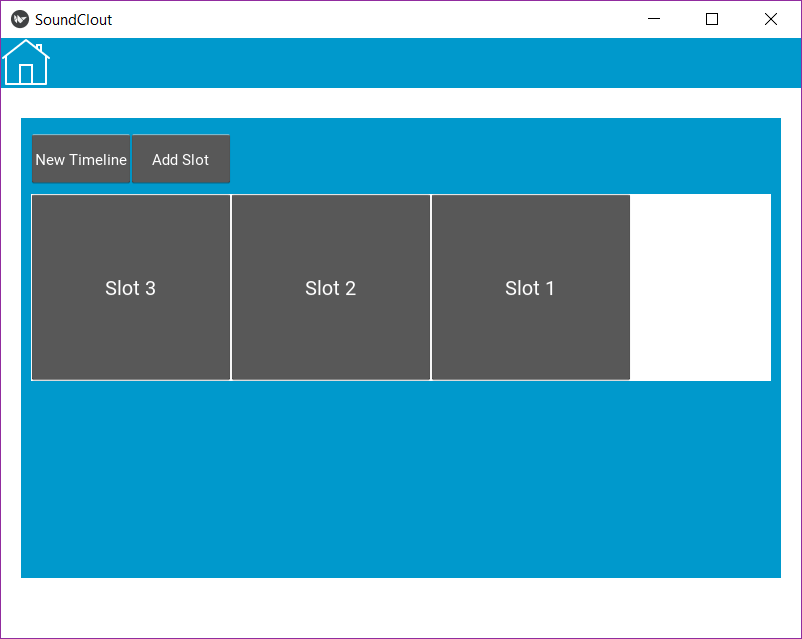
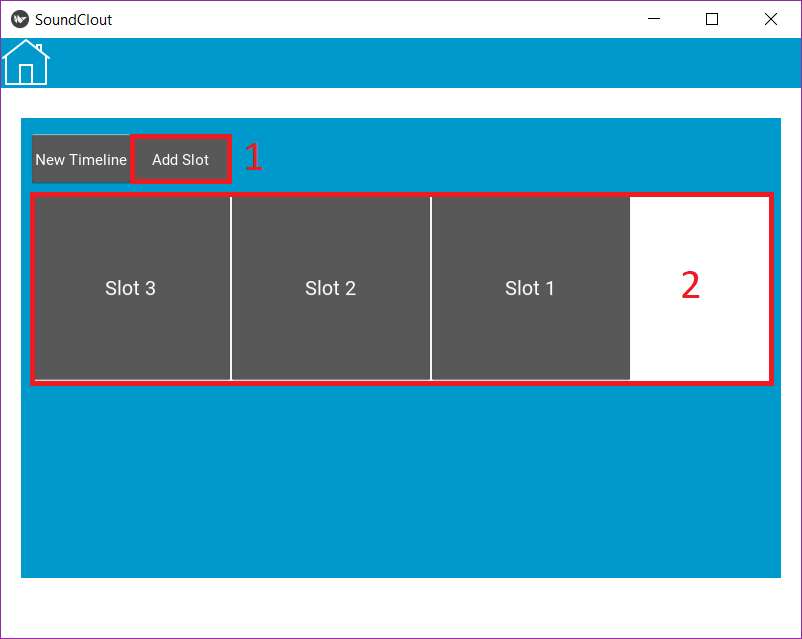
finished index

Changed region(s): [[0.0312, 0.2081, 0.9663, 0.6244], [0.8416, 0.4163, 0.8728, 0.4757]]

diff --git a/index.html b/index.html
@@ -3,12 +3,12 @@
 <head>
 <style>
 img {
-    height:30%;
+    width:20%;
 }
 </style>
 </head>
 
-<body>
+<body style="width:80%">
 <h1>SoundClout Application User Guide</h1>
 <br>
 <p style="font-family:courier;">The Soundclout app is an application intended to control and distribute a series of instructions to raspberry pi devices for use in a sound art installation. Even though the intended use of the app is for an art installation, it can still serve as a generalized raspberry pi controller.</p>
@@ -21,38 +21,56 @@ img {
 <p style="font-family:courier;">To get started you must connect to the raspberry pis you intend on using. Go to the "Connect Devices" Page.</p>
 <p>Connected Devices page:</p>
 <img src="./images/connectdev.png" alt="Connected Devices">
-<p style="font-family:courier;"> First make sure your computer's bluetooth is ON. Hit scan<em color="#ff0000">(1)</em> and the app will search the list of bluetooth enabled devices in the area for the configured raspberry pis. The list of devices that show up in the list under scan<em color="#ff0000">(2)</em> will only be the pis that are configured for the app- so any other devices in the area won't be available to make a connection. Click on the device name in the list to add it to your list of connected devices<em color="#ff0000">(3)</em>. If you wish to disconnect from a device simply click on the name in the connected devices area<em color="#ff0000">(3)</em>. If you want to disconnect from all devices, hit the button<em color="#ff0000">(4)</em>. Click the home icon in the top left corner to return to the main screen.</p>
+<p style="font-family:courier;"> First make sure your computer's bluetooth is ON. Hit scan<a style="color:red">(1)</a> and the app will search the list of bluetooth enabled devices in the area for the configured raspberry pis. The list of devices that show up in the list under scan<a style="color:red">(2)</a> will only be the pis that are configured for the app- so any other devices in the area won't be available to make a connection. Click on the device name in the list to add it to your list of connected devices<a style="color:red">(3)</a>. If you wish to disconnect from a device simply click on the name in the connected devices area<a style="color:red">(3)</a>. If you want to disconnect from all devices, hit the button<a style="color:red">(4)</a>. Click the home icon in the top left corner to return to the main screen.</p>
 <br>
 
 <p style="font-family:courier;">To test the raspberry pis you are connected to, navigate to the "Device Tester" screen.</p>
 <p>Device Tester Screen:</p>
 <img src="./images/testdev.png" alt="Test Devices">
-<p style="font-family:courier;">There will be a list of the devices you are connected to<em color="#ff0000">(1)</em> and then you can toggle the switches<em>(2)</em> next to the name to "ON" and hit the test button<em color="#ff0000">(3)</em> to start running the components connected to the Pi(s).</p>
+<p style="font-family:courier;">There will be a list of the devices you are connected to<a style="color:red">(1)</a> and then you can toggle the switches<em>(2)</a> next to the name to "ON" and hit the test button<a style="color:red">(3)</a> to start running the components connected to the Pi(s).</p>
 <p style="font-family:courier;">Once you are satisfied everything is working as intended you can start grouping together your devices</p>
 <br>
 
 <p style="font-family:courier;">Go to the "Edit Device Groups page" to begin adding devices.</p>
 <p>Edit Device Groups Page:</p>
 <img src="./images/editdevgroup.png" alt="Edit Device Groups">
-<p style="font-family:courier;">Select Create Group<em color="#ff0000">(1)</em> to create a new group. Groups are collections of devices that all receive the same instructions from the application. Alternatively you can Load Groups<em color="#ff0000">(2)</em> to load a configuration you have previously saved.</p>
+<p style="font-family:courier;">Select Create Group<a style="color:red">(1)</a> to create a new group. Groups are collections of devices that all receive the same instructions from the application. Alternatively you can Load Groups<a style="color:red">(2)</a> to load a configuration you have previously saved.</p>
 <p>New Group Screen:</p>
 <img src="./images/newgroup.png" alt="New Device Groups">
-<p style="font-family:courier;">Where it says "New Group"<em color="#ff0000">(1)</em> you can name the group whatever you'd like and then hit ok<em color="#ff0000">(2)</em> when you're satisfied.</p>
+<p style="font-family:courier;">Where it says "New Group"<a style="color:red">(1)</a> you can name the group whatever you'd like and then hit ok<a style="color:red">(2)</a> when you're satisfied.</p>
 <p>You'll see this after you hit ok:</p>
 <img src="./images/group settings.png" alt="Group Settings">
-<p style="font-family:courier;">Now you can see your group settings and the devices that you're connected to<em color="#ff0000">(1)</em> in this page. Hit the switch<em color="#ff0000">(2)</em> to choose which devices are active inside of this group. Hit back<em color="#ff0000">(3)</em> to go back to the edit device groups screen - or hit remove<em color="#ff0000">(4)</em> to delete this group.</p>
+<p style="font-family:courier;">Now you can see your group settings and the devices that you're connected to<a style="color:red">(1)</a> in this page. Hit the switch<a style="color:red">(2)</a> to choose which devices are active inside of this group. Hit back<a style="color:red">(3)</a> to go back to the edit device groups screen - or hit remove<a style="color:red">(4)</a> to delete this group.</p>
 <p>Now the Edit Device Groups page looks like this:</p>
 <img src="./images/editdevgroup2.png" alt="Edit Device Groups2">
-<p style="font-family:courier;">You can now see the groups you have made in the edit device groups screen. You can click save<em color="#ff0000">(1)</em> to save your current group configurations if you want to.</p>
+<p style="font-family:courier;">You can now see the groups you have made in the edit device groups screen. You can click save<a style="color:red">(1)</a> to save your current group configurations if you want to.</p>
 <p style="font-family:courier;">Now we can return to the main screen.</p>
 <br>
 
 <p style="font-family:courier;">Navigate to the "Edit Group Behavior" screen to start building a timeline. A timeline is a group of time slots that tell each device group how to behave during that slot of time. When the app is running the time slots are executed in order.</p>
 <p>Edit Group Behavior Screen:</p>
 <img src="./images/edit group behavior.png" alt="Edit Group Behavior">
-<p style="font-family:courier;">Hit build timeline<em color="#ff0000">(1)</em> to create a new one or load timeline<em color="#ff0000">(2)</em> to load a timeline configuration you've already made</p>
+<p style="font-family:courier;">Hit build timeline<a style="color:red">(1)</a> to create a new one or load timeline<a style="color:red">(2)</a> to load a timeline configuration you've already made. Let's look at building a new timeline.</p>
+<p>Building Timelines:</p>
+<img src="./images/adding slots.png" alt="Building Timeline">
+<p style="font-family:courier;">Hit add slot<a style="color:red">(1)</a> to add a new slot. Each slot represents a range of time in which specific setting are applied to each active group. When you select a slot<a style="color:red">(2)</a> you can then individually configure the settings you want applied to each group of devices in that slot of time. First you must select the group whose settings for that slot you'd like to edit.</p>
+<p>Selecting Slot Group:</p>
+<img src="./images/slotgroupselection.png" alt="Select Group In Slot">
+<p style="font-family:courier;">You'll see the groups you have created here<a style="color:red">(1)</a>. You can select a group to edit the slot settings, or you can press "Remove Slot"<a style="color:red">(2)</a> to delete the slot you are currently editing. Let's select Group 1 to see its slot settings.</p>
+
+<p>Configuring Group Slot Settings:</p>
+<img src="./images/slotsettings.png" alt="Configure Slots">
+<p style="font-family:courier;">The number of events<a style="color:red">(1)</a> is how many times the connected group activates the attached components within the total time lenght of the slot. The Event length<a style="color:red">(2)</a> is how long the components are activated during each instance of an event. The Apply Trigger<a style="color:red">(3)</a> allows you to connect another group to the current group. When the other group triggers an event, there is a percent chance<a style="color:red">(4)</a> you can specify that the current group will also have an event regardless of the number of total events selected. This allows groups to be dependent on or interact with one another.</p>
+<p style="font-family:courier;">Hit save<a style="color:red">(5)</a> to commit the group behavior for this time slot.</p>
+<p style="font-family:courier;">Once you configure settings for each group in each slot, we can return to the homescreen to execute the program.</p>
+
+<p>Click the start button and the program will generate a pattern to send to your connected devices based on the parameters you provided. The events will be placed randomly within a time slot so running the same pattern multiple times will generate new sequences.</p>
+<img src="./images/startcylce.png" alt="Start">
 
 
-
+<br>
+<br>
+<br>
+<br>
 </body>
 </html>
